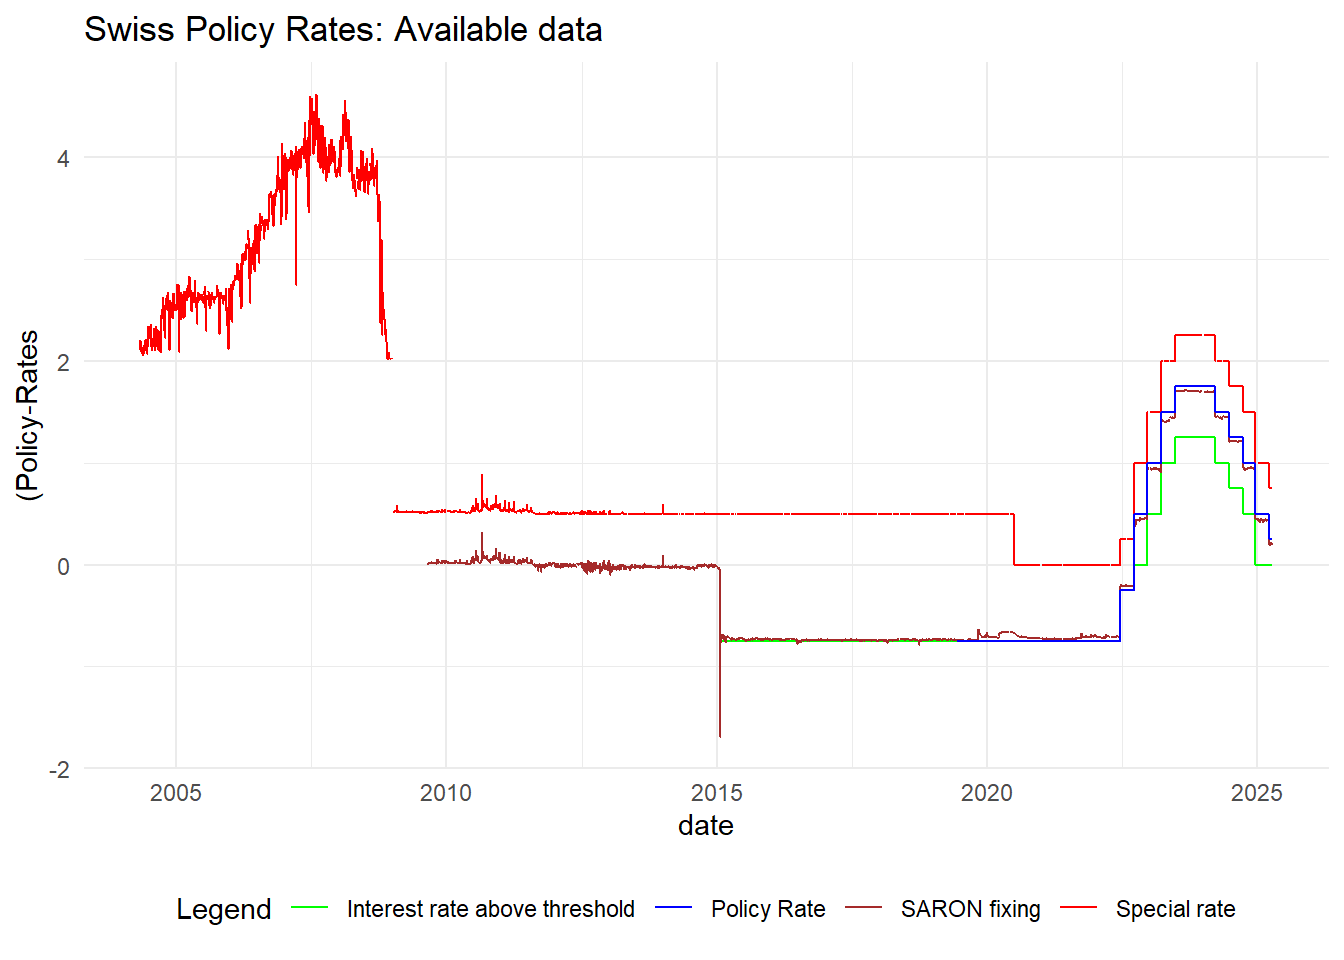
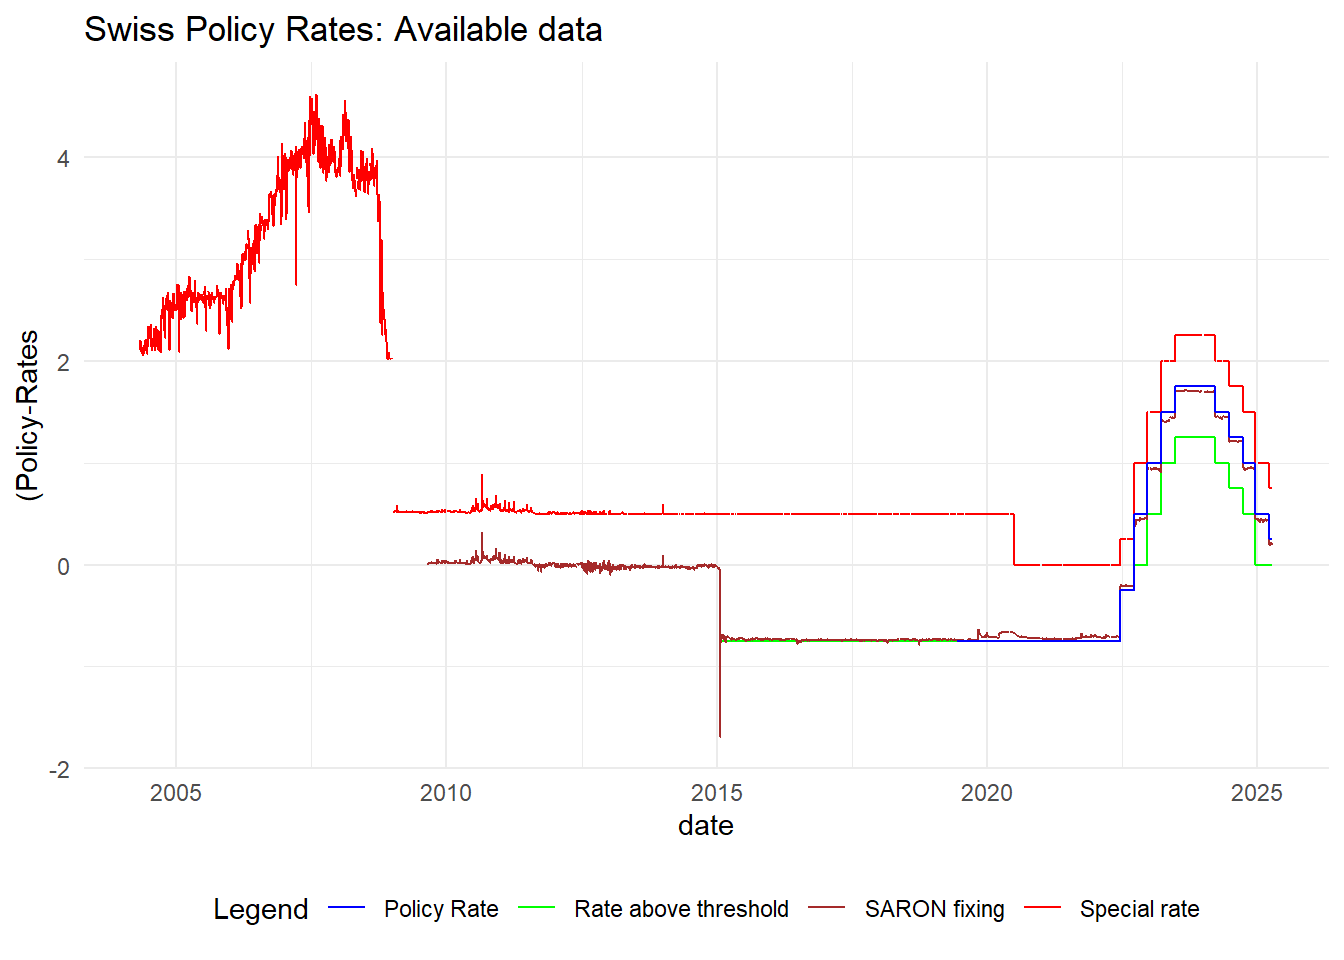
new quarto book rendered.

Changed region(s): [[0.125, 0.9375, 0.9375, 0.9688]]

diff --git a/_book/sections/R_analysis.html b/_book/sections/R_analysis.html
@@ -279,11 +279,11 @@ pre > code.sourceCode > span > a:first-child::before { text-decoration: underlin
 <span id="cb3-11"><a href="#cb3-11" aria-hidden="true" tabindex="-1"></a>  )</span>
 <span id="cb3-12"><a href="#cb3-12" aria-hidden="true" tabindex="-1"></a></span>
 <span id="cb3-13"><a href="#cb3-13" aria-hidden="true" tabindex="-1"></a><span class="fu">ggplot</span>(pr_full, <span class="fu">aes</span>(<span class="at">x =</span> date)) <span class="sc">+</span></span>
-<span id="cb3-14"><a href="#cb3-14" aria-hidden="true" tabindex="-1"></a>  <span class="fu">geom_line</span>(<span class="fu">aes</span>(<span class="at">y =</span> ir_above, <span class="at">color =</span> <span class="st">"Interest rate above threshold"</span>)) <span class="sc">+</span></span>
+<span id="cb3-14"><a href="#cb3-14" aria-hidden="true" tabindex="-1"></a>  <span class="fu">geom_line</span>(<span class="fu">aes</span>(<span class="at">y =</span> ir_above, <span class="at">color =</span> <span class="st">"Rate above threshold"</span>)) <span class="sc">+</span></span>
 <span id="cb3-15"><a href="#cb3-15" aria-hidden="true" tabindex="-1"></a>  <span class="fu">geom_line</span>(<span class="fu">aes</span>(<span class="at">y =</span> sar_fix, <span class="at">color =</span> <span class="st">"SARON fixing"</span>)) <span class="sc">+</span></span>
 <span id="cb3-16"><a href="#cb3-16" aria-hidden="true" tabindex="-1"></a>  <span class="fu">geom_line</span>(<span class="fu">aes</span>(<span class="at">y =</span> special, <span class="at">color =</span> <span class="st">"Special rate"</span>)) <span class="sc">+</span></span>
 <span id="cb3-17"><a href="#cb3-17" aria-hidden="true" tabindex="-1"></a>  <span class="fu">geom_line</span>(<span class="fu">aes</span>(<span class="at">y =</span> policy, <span class="at">color =</span> <span class="st">"Policy Rate"</span>)) <span class="sc">+</span></span>
-<span id="cb3-18"><a href="#cb3-18" aria-hidden="true" tabindex="-1"></a>  <span class="fu">scale_color_manual</span>(<span class="at">values =</span> <span class="fu">c</span>(<span class="st">"Interest rate above threshold"</span> <span class="ot">=</span> <span class="st">"green"</span>,</span>
+<span id="cb3-18"><a href="#cb3-18" aria-hidden="true" tabindex="-1"></a>  <span class="fu">scale_color_manual</span>(<span class="at">values =</span> <span class="fu">c</span>(<span class="st">"Rate above threshold"</span> <span class="ot">=</span> <span class="st">"green"</span>,</span>
 <span id="cb3-19"><a href="#cb3-19" aria-hidden="true" tabindex="-1"></a>                                <span class="st">"SARON fixing"</span> <span class="ot">=</span> <span class="st">"brown"</span>,</span>
 <span id="cb3-20"><a href="#cb3-20" aria-hidden="true" tabindex="-1"></a>                                <span class="st">"Special rate"</span> <span class="ot">=</span> <span class="st">"red"</span>,</span>
 <span id="cb3-21"><a href="#cb3-21" aria-hidden="true" tabindex="-1"></a>                                <span class="st">"Policy Rate"</span> <span class="ot">=</span> <span class="st">"blue"</span>)) <span class="sc">+</span></span>
@@ -379,9 +379,9 @@ pre > code.sourceCode > span > a:first-child::before { text-decoration: underlin
 <div class="cell">
 <div class="sourceCode cell-code" id="cb6"><pre class="sourceCode r code-with-copy"><code class="sourceCode r"><span id="cb6-1"><a href="#cb6-1" aria-hidden="true" tabindex="-1"></a><span class="fu">ggplot</span>(df, <span class="fu">aes</span>(<span class="at">x =</span> date)) <span class="sc">+</span></span>
 <span id="cb6-2"><a href="#cb6-2" aria-hidden="true" tabindex="-1"></a>  <span class="fu">geom_line</span>(<span class="fu">aes</span>(<span class="at">y =</span> policy_rate, <span class="at">color =</span> <span class="st">"SNB Policy Rate"</span>)) <span class="sc">+</span></span>
-<span id="cb6-3"><a href="#cb6-3" aria-hidden="true" tabindex="-1"></a>  <span class="fu">geom_line</span>(<span class="fu">aes</span>(<span class="at">y =</span> infl, <span class="at">color =</span> <span class="st">"SNB - Core inflation, trimmed mean"</span>)) <span class="sc">+</span></span>
+<span id="cb6-3"><a href="#cb6-3" aria-hidden="true" tabindex="-1"></a>  <span class="fu">geom_line</span>(<span class="fu">aes</span>(<span class="at">y =</span> infl, <span class="at">color =</span> <span class="st">"Core inflation, trimmed mean"</span>)) <span class="sc">+</span></span>
 <span id="cb6-4"><a href="#cb6-4" aria-hidden="true" tabindex="-1"></a>  <span class="fu">scale_color_manual</span>(<span class="at">values =</span> <span class="fu">c</span>(<span class="st">"SNB Policy Rate"</span> <span class="ot">=</span> <span class="st">"blue"</span>,</span>
-<span id="cb6-5"><a href="#cb6-5" aria-hidden="true" tabindex="-1"></a>                                <span class="st">"SNB - Core inflation, trimmed mean"</span> <span class="ot">=</span> <span class="st">"red"</span>)) <span class="sc">+</span></span>
+<span id="cb6-5"><a href="#cb6-5" aria-hidden="true" tabindex="-1"></a>                                <span class="st">"Core inflation, trimmed mean"</span> <span class="ot">=</span> <span class="st">"red"</span>)) <span class="sc">+</span></span>
 <span id="cb6-6"><a href="#cb6-6" aria-hidden="true" tabindex="-1"></a>  <span class="fu">labs</span>(<span class="at">title =</span> <span class="st">"Swiss Policy Rates and Inflation Rates 2000-2025"</span>,</span>
 <span id="cb6-7"><a href="#cb6-7" aria-hidden="true" tabindex="-1"></a>       <span class="at">color =</span> <span class="st">"Legend"</span>,</span>
 <span id="cb6-8"><a href="#cb6-8" aria-hidden="true" tabindex="-1"></a>       <span class="at">y =</span> <span class="st">"(Inflation- / Policy-) Rates"</span>) <span class="sc">+</span></span>
